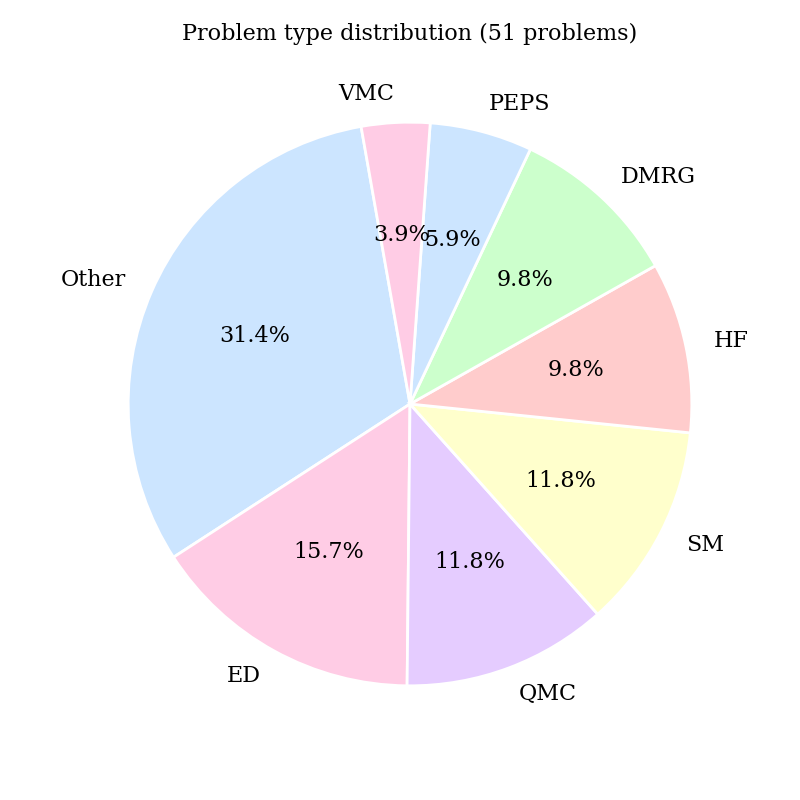
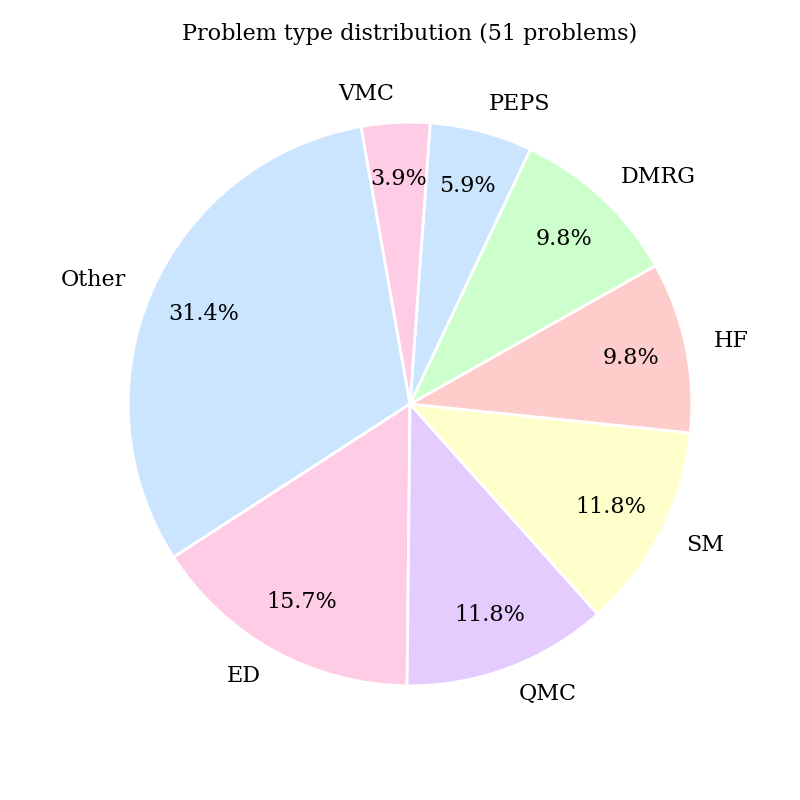
made pie chart prettier

diff --git a/scripts/summarize_eval.py b/scripts/summarize_eval.py
@@ -60,7 +60,9 @@ def dataset_distribution_chart(config):
         autopct='%1.1f%%',             
         startangle=100,               
         colors=colors,                 
-        wedgeprops={'edgecolor': 'white', 'linewidth': 2}
+        wedgeprops={'edgecolor': 'white', 'linewidth': 2},
+        labeldistance=1.1,
+        pctdistance=0.8
     )
 
     plt.title(f'Problem type distribution ({len(df)} problems)', pad=40)
